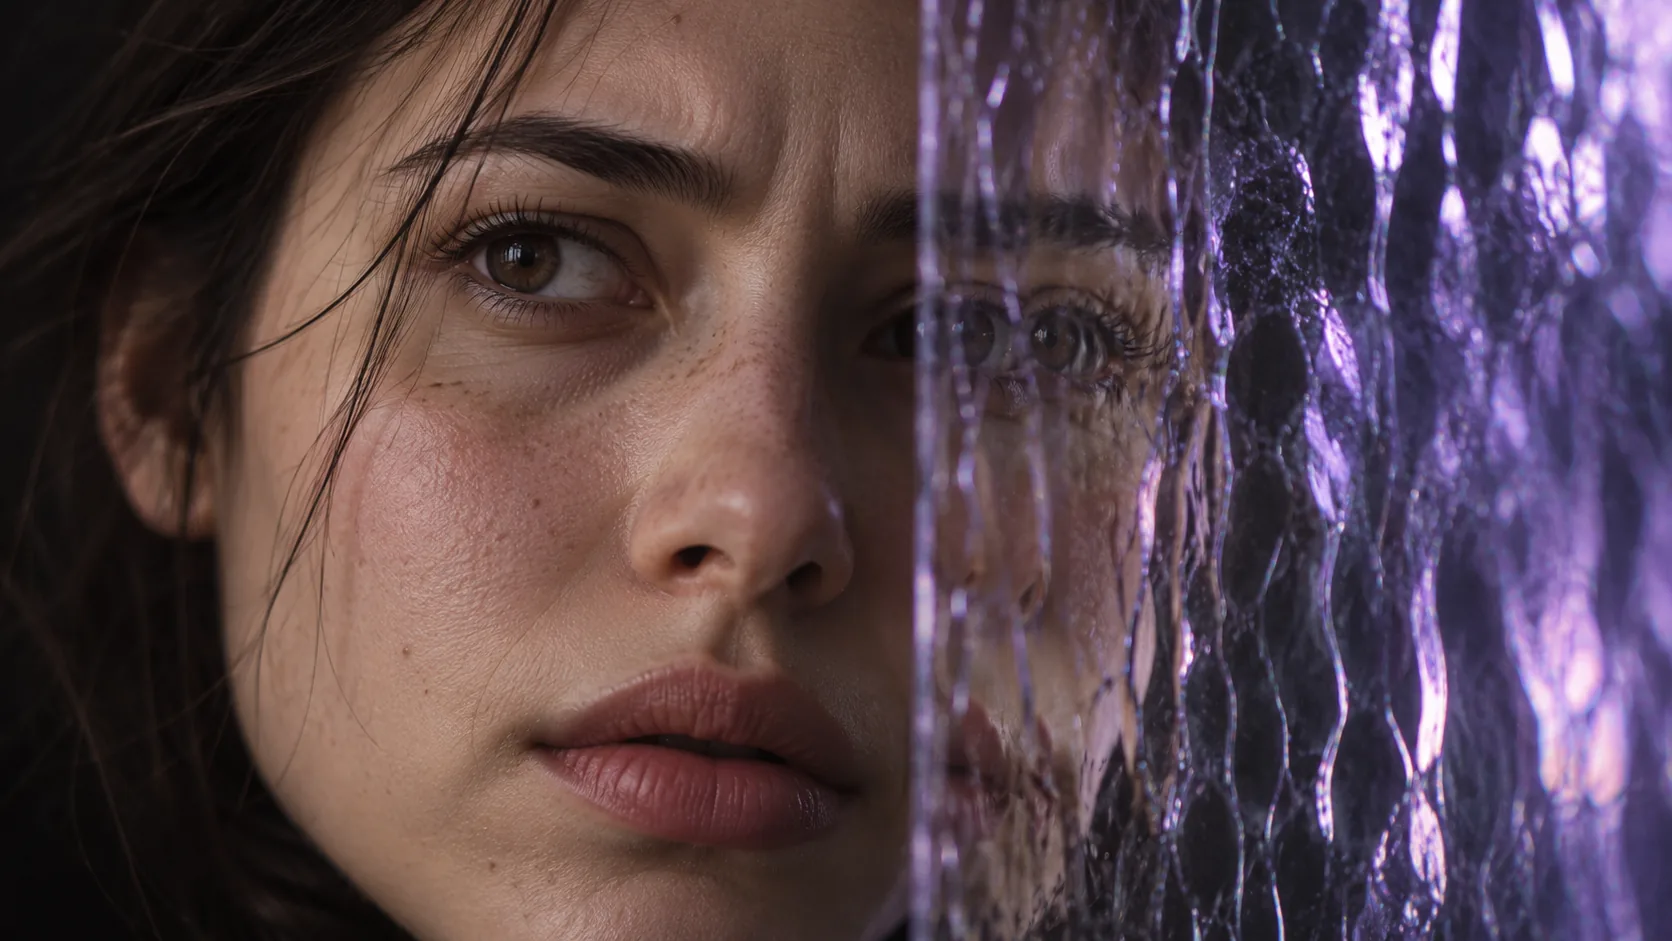
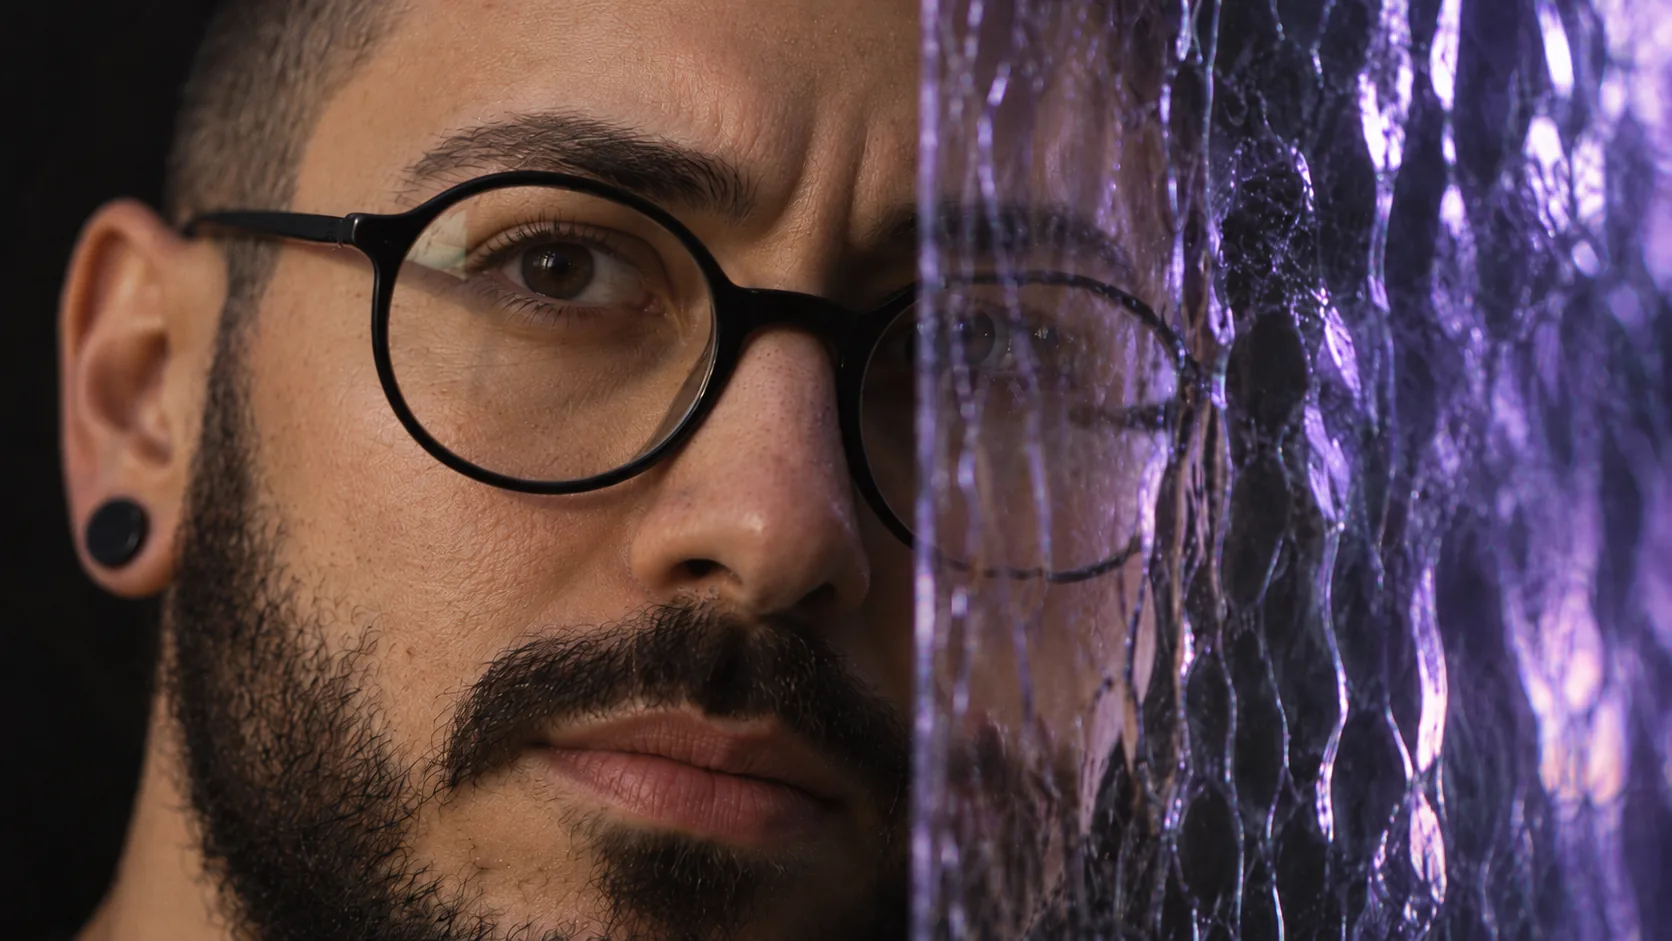
site: hero photo is now Eduardo's portrait behind reeded lilac glass; the previous woman portrait kept as public/hero/portrait-woman.webp to switch back

diff --git a/site/DESIGN.md b/site/DESIGN.md
@@ -135,7 +135,7 @@ Everything else is a tint of these three, mixed in CSS (`color-mix`), so no extr
 - **Refs:** https://useplanes.com/ (second section), `/workspace/site-shots/v5-canvas-*.png`, `/workspace/site-shots/v5-lightbox-*.png`
 
 ### 2026-10-21 — Hero photo, full bleed
-- **Context:** Eduardo supplied `public/hero/portrait.webp` (a worried face behind reeded glass with lilac light) for a noone.is-style hero.
+- **Context:** Eduardo supplied `public/hero/portrait.webp` (his own portrait, frowning, half behind reeded glass with lilac light) for a noone.is-style hero. The earlier image (a worried woman behind lilac frosted glass) is kept as `public/hero/portrait-woman.webp` to switch back.
 - **Decision:** the photo fills the first screen edge to edge, behind the header (`next/image` fill, priority, `sizes=100vw`; 64svh on phones so both eyes stay in frame above the text). It replaces the top light there. Three scrims in the bg color (bottom to top, left to right, a short one under the header) keep the headline, line and install command AA readable. Decorative: `alt=""`, `aria-hidden`.
 - **Why:** one strong, specific image says "generated sameness is a problem" better than more copy; the lilac in the glass is the brand accent, not an added glow.
 - **Exception:** the scrims are the only gradients on the site, bg-color to transparent only, never a color gradient.
